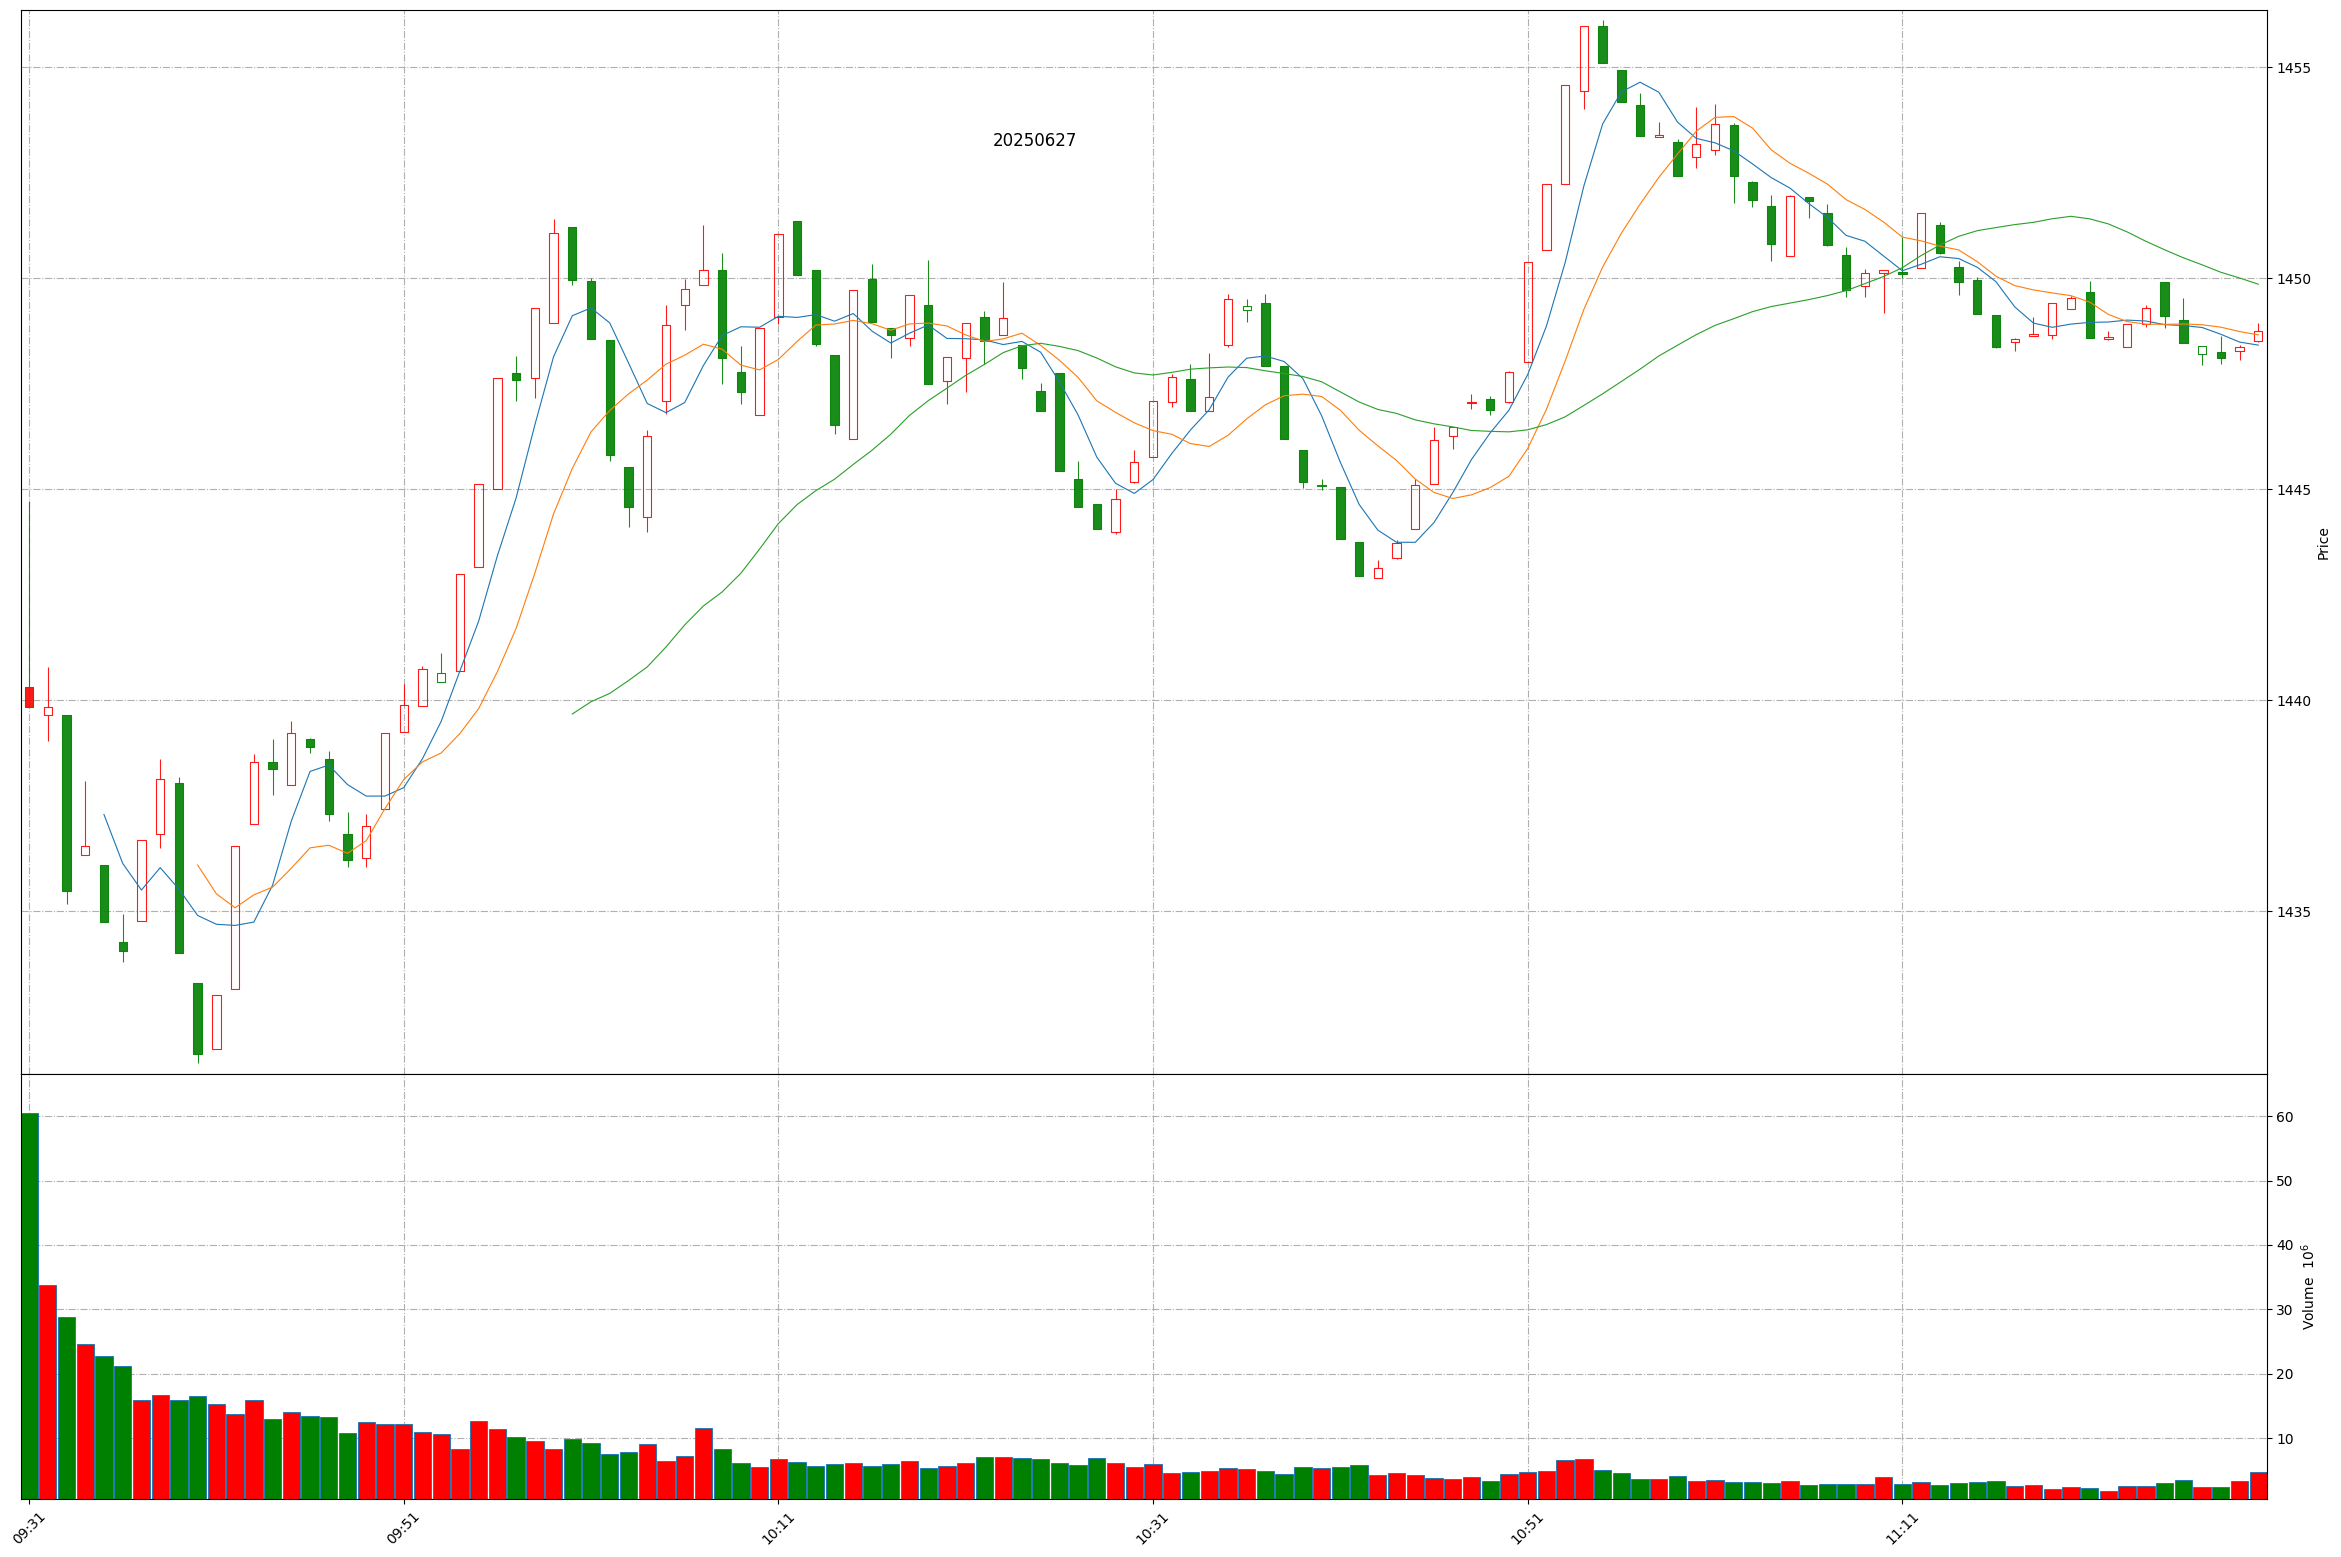
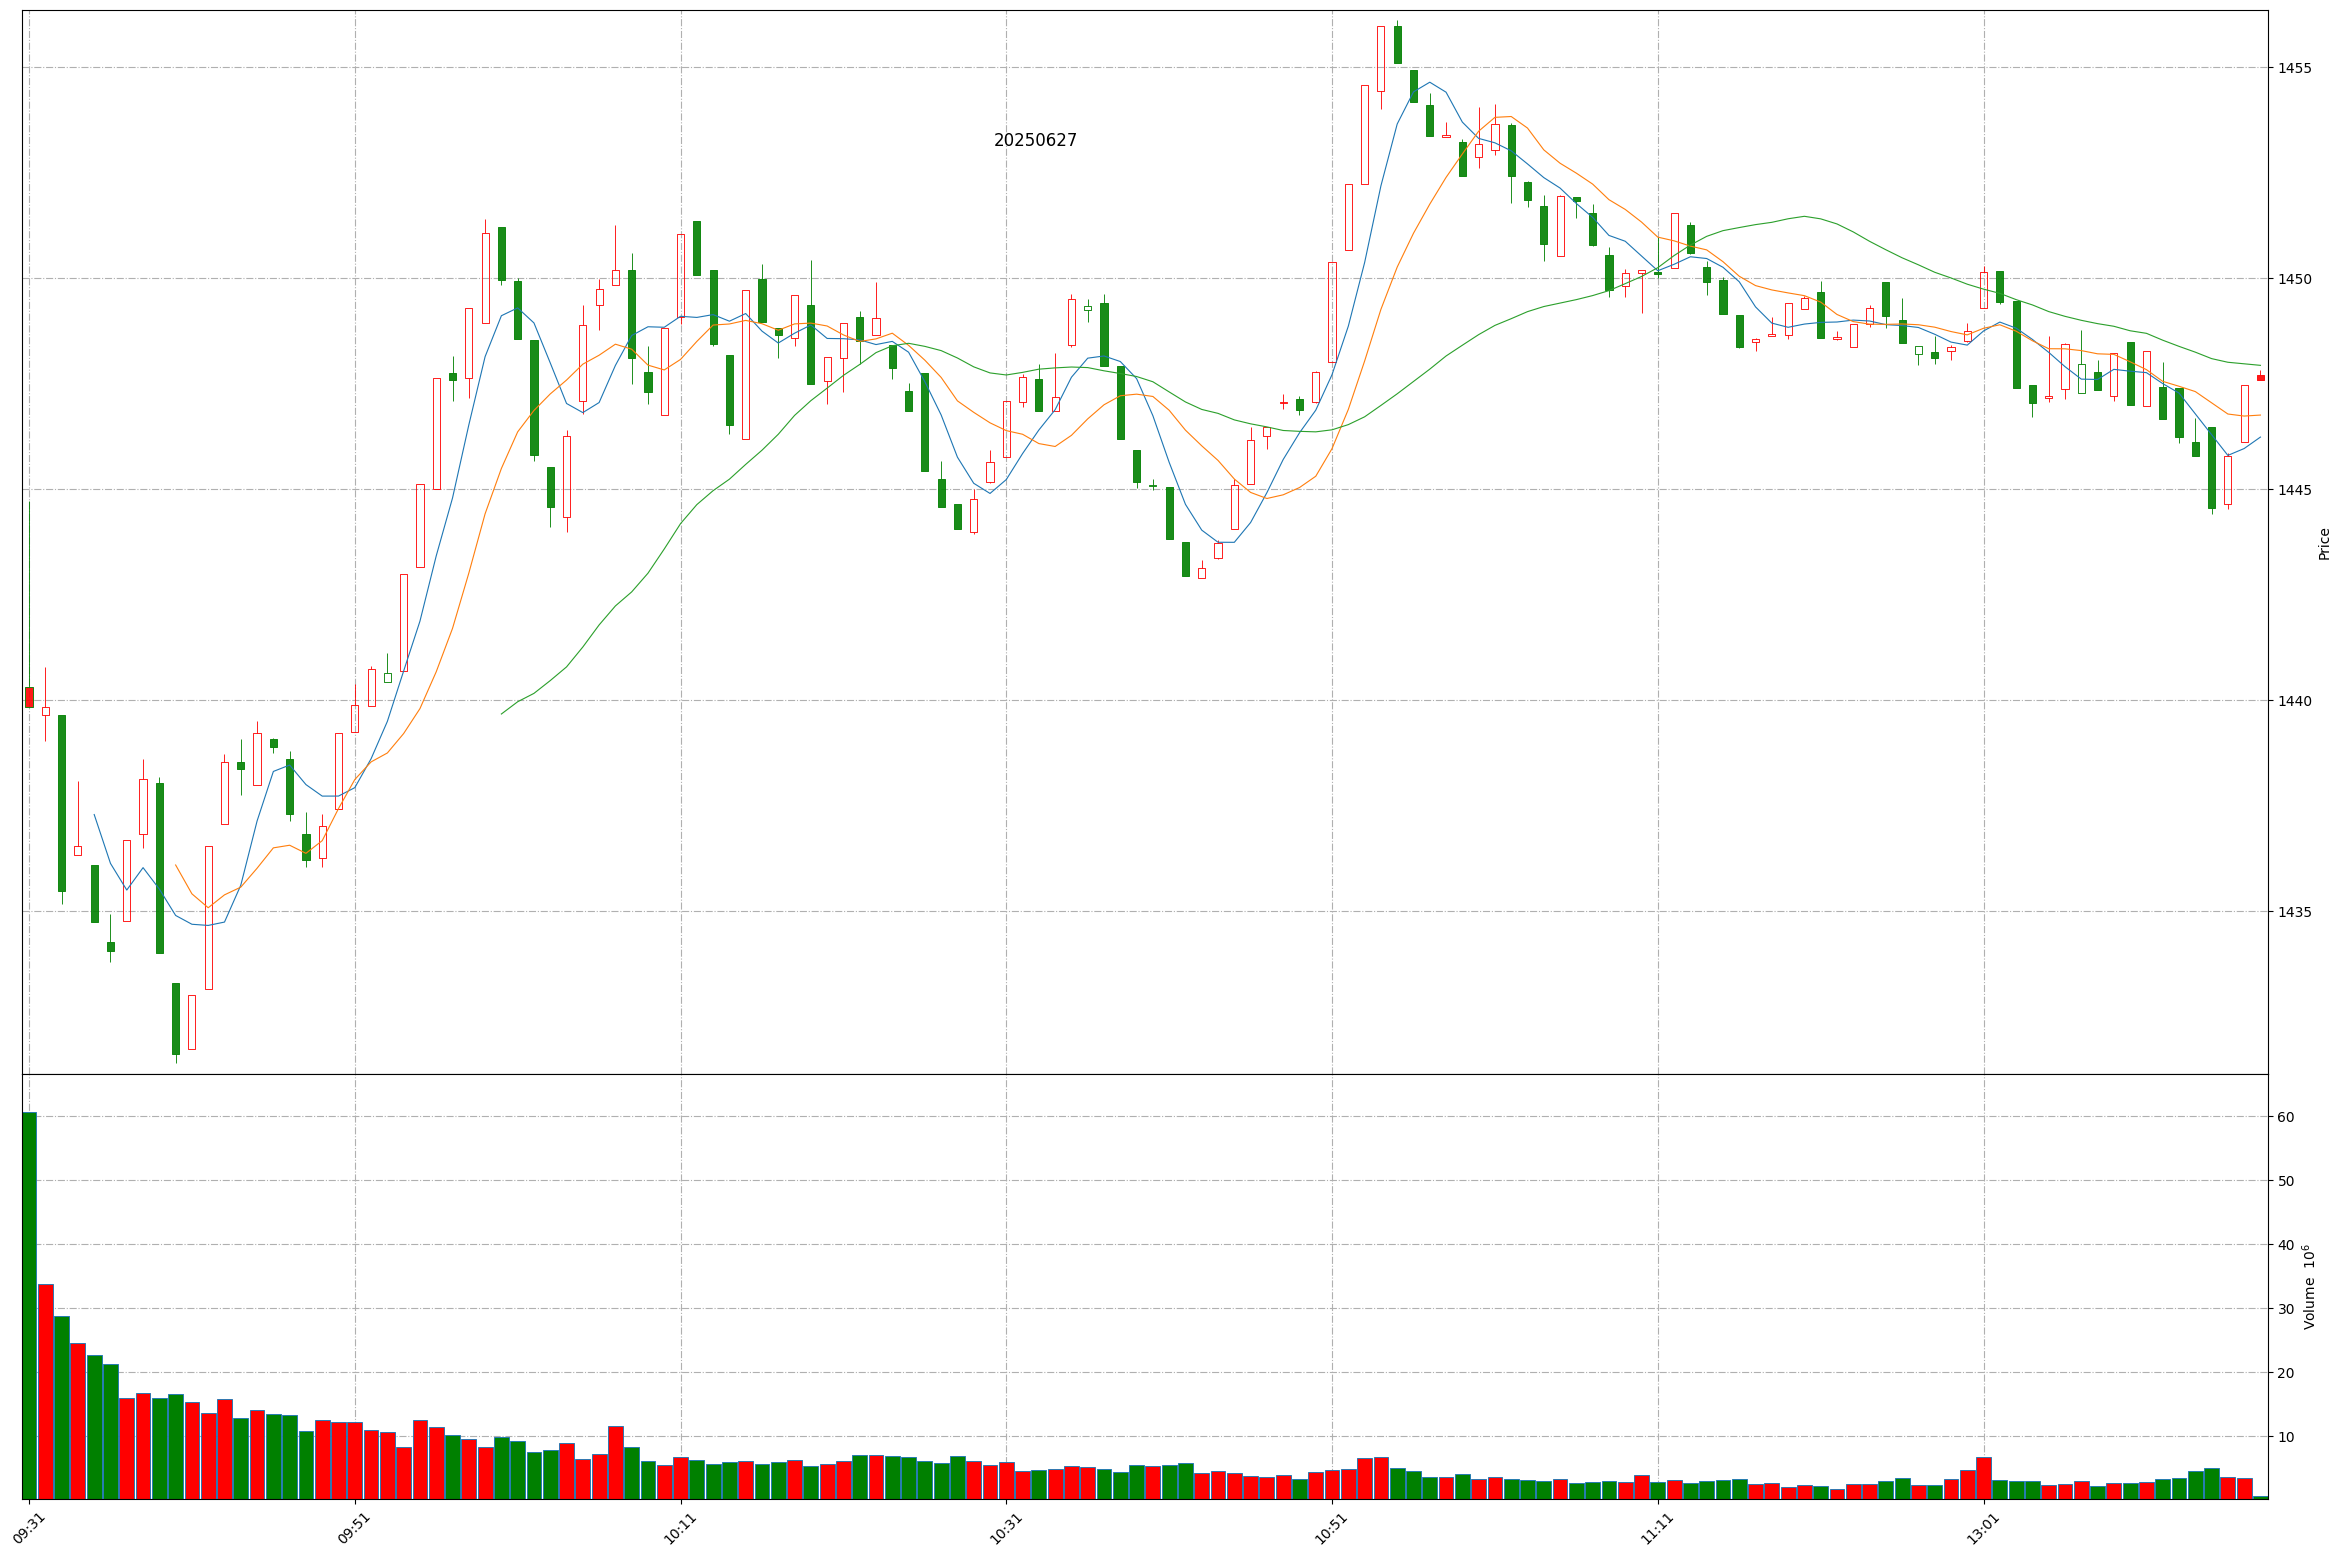
Github action update at 2025-06-27 13:17:35.

diff --git a/README.md b/README.md
@@ -1,11 +1,11 @@
 
 # Daily-A-share-market-quotes 每日 A 股指数（5min 更新）- 20250627
 
-### 上证指数 20250627 12:1
+### 上证指数 20250627 13:17
 ![](./fig/2025/6/20250627-sh000001.png)
 
-### 深证成指 20250627 12:1
+### 深证成指 20250627 13:17
 ![](./fig/2025/6/20250627-sz399001.png)
 
-### 北证50 20250627 12:1
+### 北证50 20250627 13:17
 ![](./fig/2025/6/20250627-bj899050.png)
